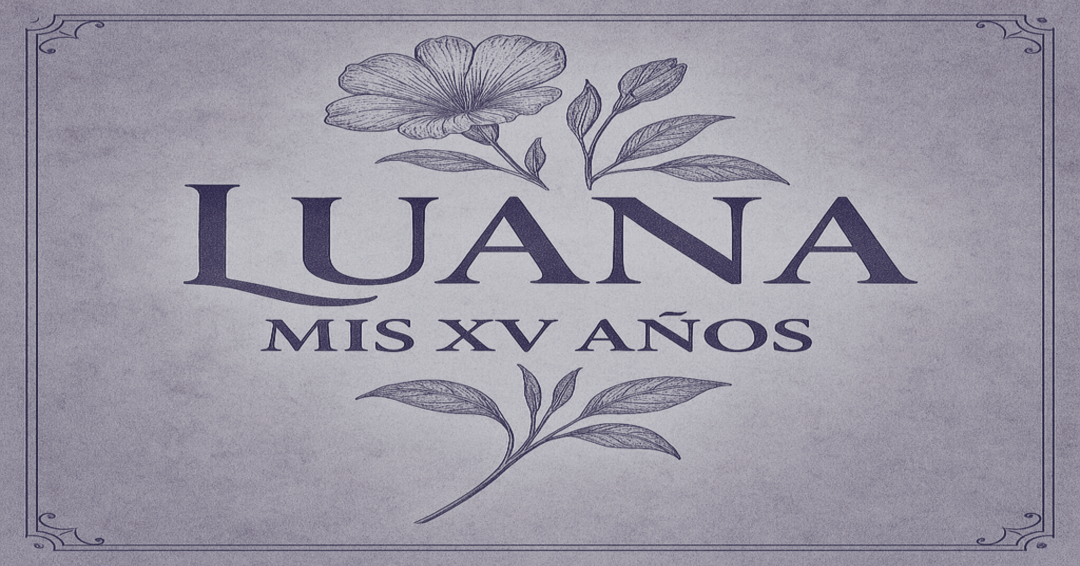
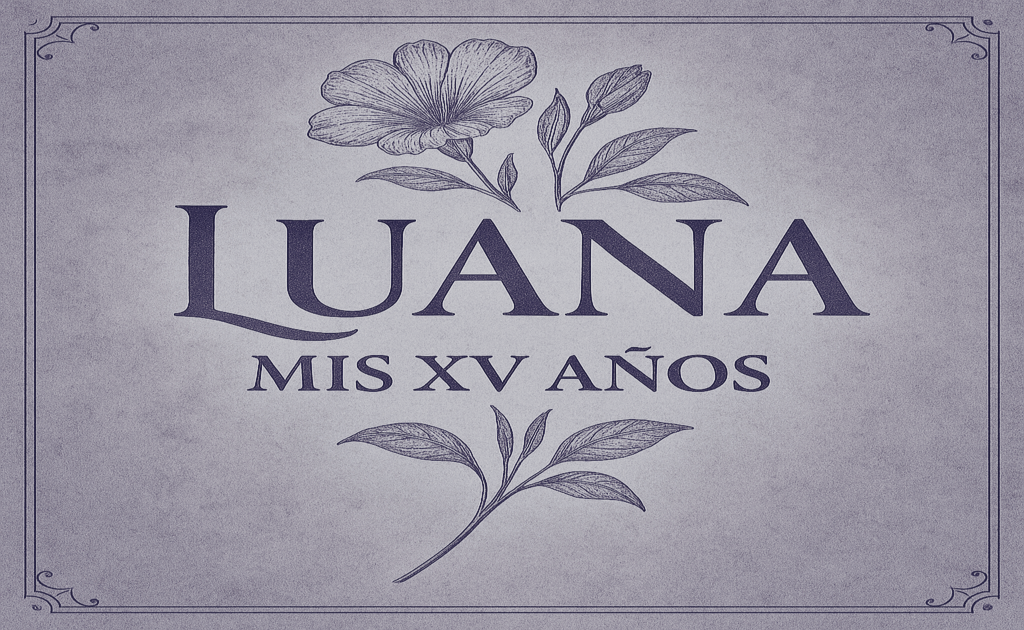
Nuevo link imagen

diff --git a/index.html b/index.html
@@ -20,7 +20,7 @@
   <meta property="og:title" content="¡Estás invitado al cumpleaños de 15 de Luana! 🎉" />
   <meta property="og:description"
     content="Estás invitado a una noche inolvidable. Confirmá tu asistencia desde esta invitación digital." />
-  <meta property="og:image" content="https://fernandopizarrodw.github.io/invitacion-luana/reformada-v2.png" />
+  <meta property="og:image" content="https://i.imgur.com/uWBftHh.png" />
   <meta property="og:url" content="https://fernandopizarrodw.github.io/invitacion-luana/" />
   <meta property="og:type" content="website" />
   <meta name="twitter:card" content="summary_large_image" />
